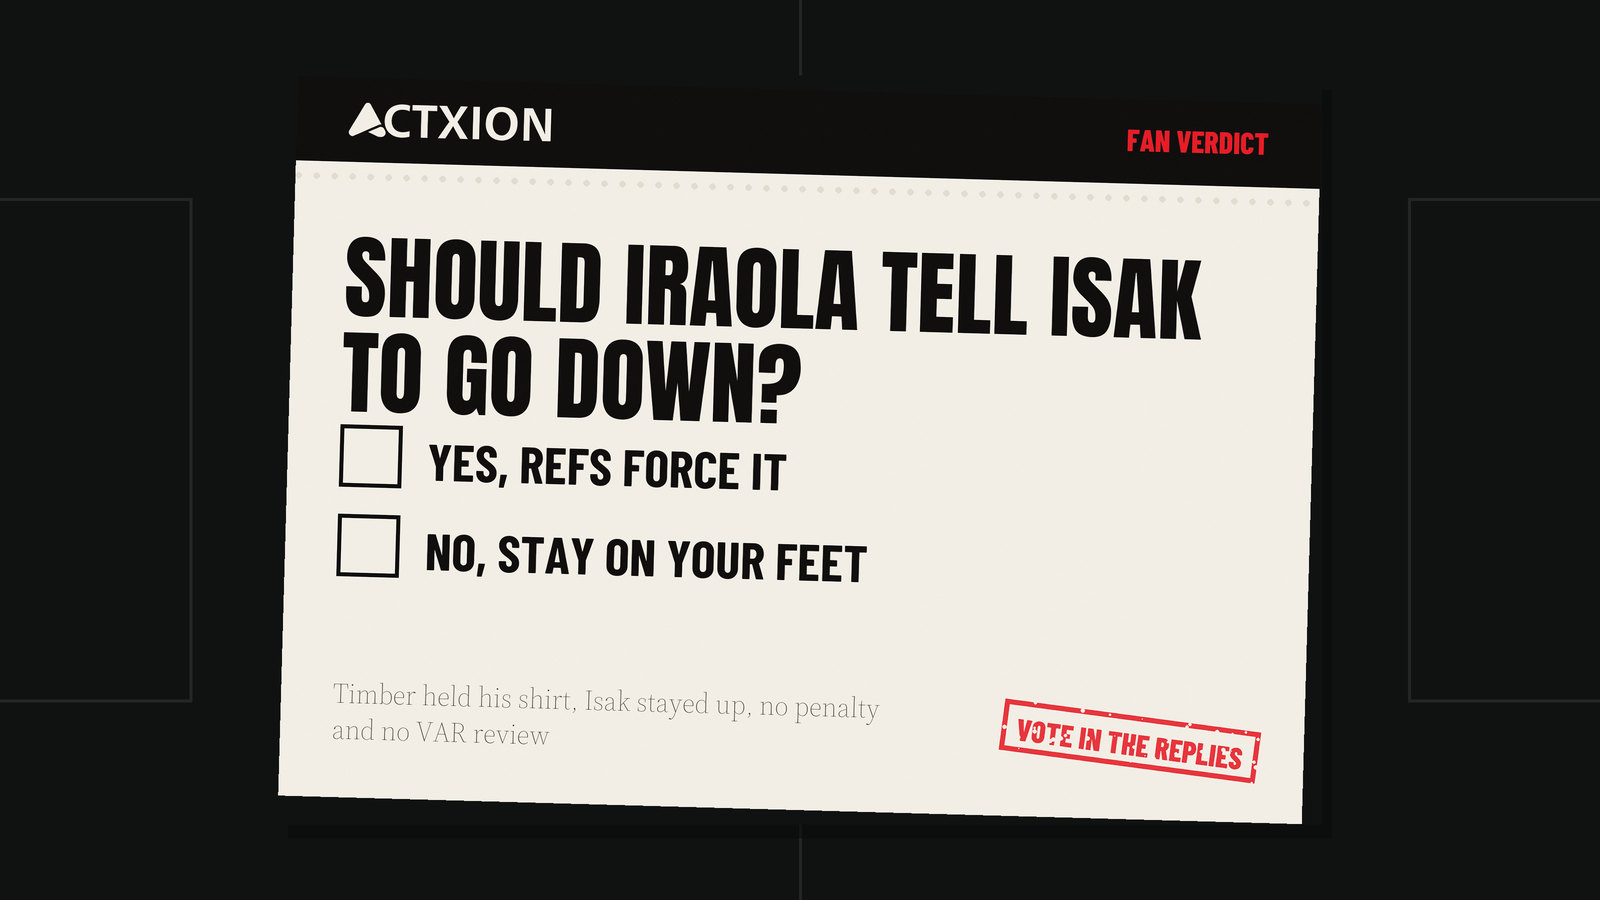
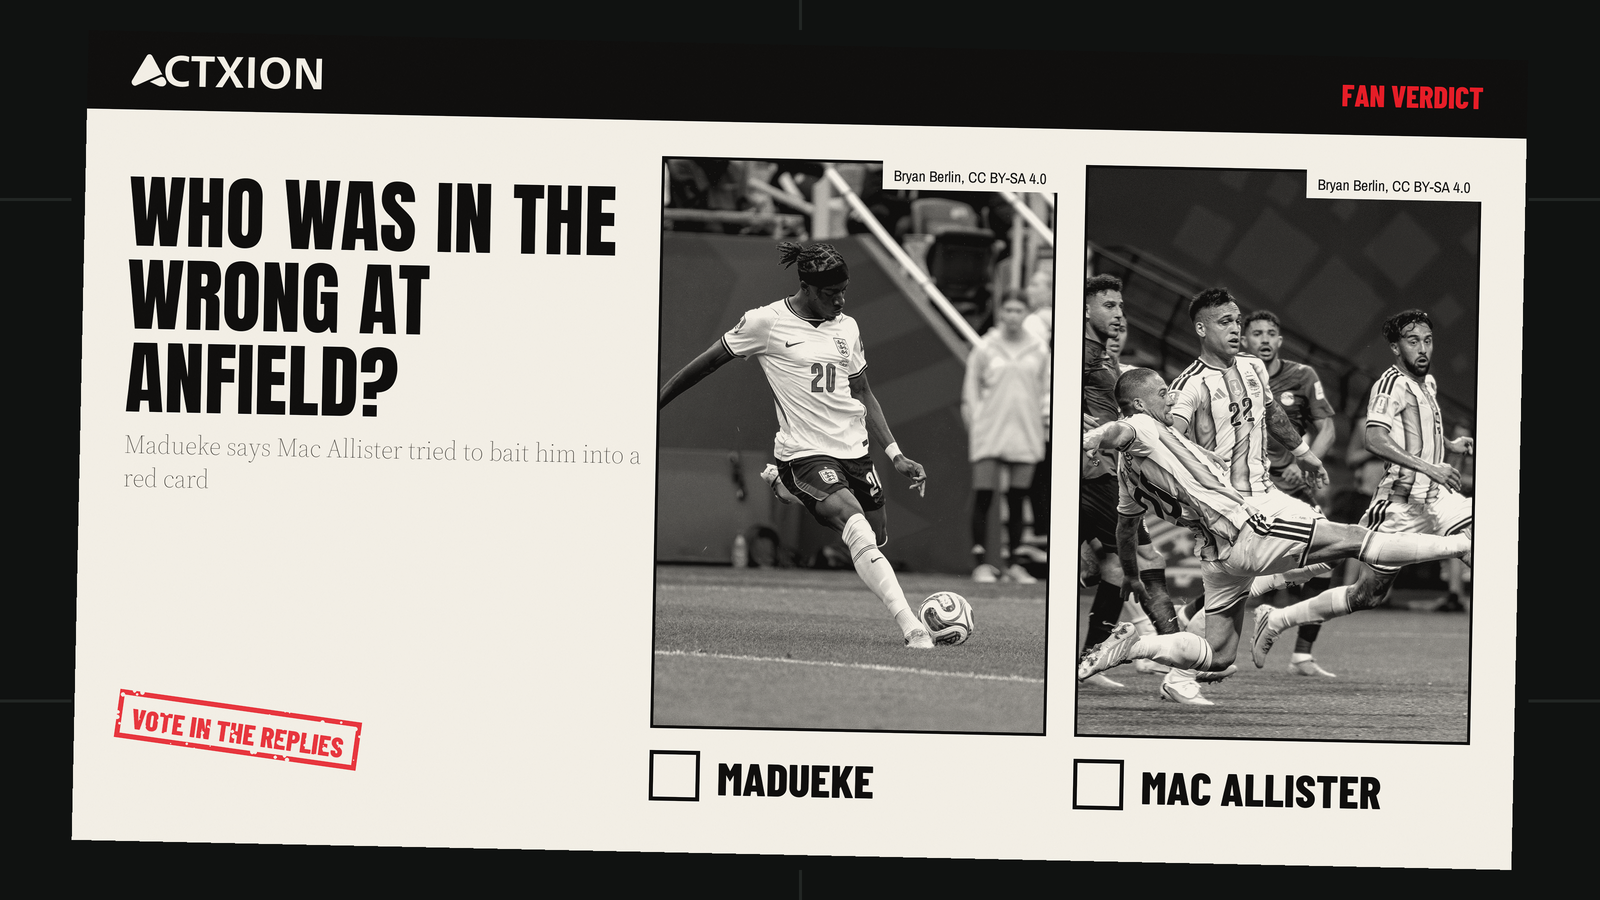
Photo-led templates: ballot, red card and scoreboard photo variants, new poster

diff --git a/skills/actxion-visuals/scripts/render.py b/skills/actxion-visuals/scripts/render.py
@@ -119,9 +119,21 @@ def load_photo(src):
     if not src:
         return None
     if re.match(r"^https?://", src):
-        req = urllib.request.Request(src, headers={"User-Agent": "ACTXION-visuals/1.0"})
-        data = urllib.request.urlopen(req, timeout=30).read()
-        return Image.open(io.BytesIO(data)).convert("RGB")
+        # Wikimedia only serves standard thumbnail widths; fall back to ones it accepts, then the original
+        tries = [src]
+        m = re.match(r"(https://[^/]*wikimedia\.org/wikipedia/commons)/thumb/(.+?)/\d+px-[^/]+$", src)
+        if m:
+            tries += [re.sub(r"/\d+px-", "/3840px-", src), re.sub(r"/\d+px-", "/1920px-", src),
+                      f"{m.group(1).replace('thumb.wikimedia.org', 'upload.wikimedia.org')}/{m.group(2)}"]
+        last = None
+        for u in dict.fromkeys(tries):
+            try:
+                req = urllib.request.Request(u, headers={"User-Agent": "ACTXION-visuals/1.0 (https://github.com/pvtaddyy/actxion-assets)"})
+                data = urllib.request.urlopen(req, timeout=30).read()
+                return Image.open(io.BytesIO(data)).convert("RGB")
+            except Exception as e:  # try the next size
+                last = e
+        raise last
     return Image.open(src).convert("RGB")
 
 
@@ -268,7 +280,7 @@ def t_ballot(spec, W, H):
     return img
 
 
-def t_scoreboard(spec, W, H):
+def t_scoreboard_core(spec, W, H):
     """Stadium dot-matrix scoreboard. Spec: home, away, home_score, away_score, scorers, status, question."""
     img = Image.new("RGB", (W * SS, H * SS), (8, 8, 9))
     d = ImageDraw.Draw(img)
@@ -471,7 +483,220 @@ def footer(d, W, H, dark=True):
     d.text((W * SS - int(56 * SS) - d.textlength(h, font=f), H * SS - int(52 * SS)), h, font=f, fill=RED if dark else INK)
 
 
-TEMPLATES = {"backpage": t_backpage, "ballot": t_ballot, "scoreboard": t_scoreboard, "rumour": t_rumour, "redcard": t_redcard}
+
+
+# ---------- photo-led variants ----------
+def duotone(photo, w, h, dark=INK, light=PAPER, focus_y=0.30, contrast=1.15):
+    """Print a file photo in two inks. Faces stay readable, age and colour casts disappear."""
+    g = ImageOps.autocontrast(cover(photo, w, h, focus_y).convert("L"), cutoff=1)
+    g = g.point(lambda v: max(0, min(255, int((v - 128) * contrast + 128))))
+    return ImageOps.colorize(g, black=dark, white=light)
+
+
+def photo_card(photo, w, h, credit=None, dark=INK, light=PAPER, label=None, label_bg=RED):
+    """A printed photo with a thin keyline, an optional label tab and a credit line."""
+    card = grain(duotone(photo, w, h, dark, light), 12)
+    d = ImageDraw.Draw(card)
+    d.rectangle((0, 0, w - 1, h - 1), outline=INK, width=int(3 * SS))
+    if label:
+        lf = font("barlow-xb", 30)
+        tw = d.textlength(label, font=lf)
+        d.rectangle((0, h - int(56 * SS), tw + int(36 * SS), h), fill=label_bg)
+        d.text((int(18 * SS), h - int(50 * SS)), label, font=lf, fill=WHITE)
+    if credit:
+        cf = font("narrow", 15)
+        ct = clean(credit)
+        cw = d.textlength(ct, font=cf)
+        d.rectangle((w - cw - int(22 * SS), 0, w, int(28 * SS)), fill=PAPER)
+        d.text((w - cw - int(11 * SS), int(4 * SS)), ct, font=cf, fill=INK)
+    return card
+
+
+def t_ballot_photos(spec, W, H):
+    """Ballot slip with a photo above each tick box: a straight A-or-B choice between two people."""
+    img = Image.new("RGB", (W * SS, H * SS), PITCH_NIGHT)
+    d = ImageDraw.Draw(img)
+    pitch_lines(d, W, H, (34, 38, 36))
+    sw, sh = int(W * SS * 0.90), int(H * SS * 0.90)
+    slip = Image.new("RGB", (sw, sh), PAPER)
+    sd = ImageDraw.Draw(slip)
+    pad = int(44 * SS)
+    sd.rectangle((0, 0, sw, int(78 * SS)), fill=INK)
+    wm = mask("wordmark", 32 * SS)
+    stamp_mask(slip, wm, (pad, (int(78 * SS) - wm.height) // 2), PAPER)
+    lf = font("barlow-xb", 30)
+    sd.text((sw - pad - sd.textlength("FAN VERDICT", font=lf), int(20 * SS)), "FAN VERDICT", font=lf, fill=RED)
+    # Question on the left, two photo ballots on the right
+    qw = int(sw * 0.40)
+    q = clean(spec.get("question", ""), headline=True)
+    qf, ql = fit(sd, q, "anton", (qw - pad) / SS, 5, 80, upper=True, max_h=(sh - int(260 * SS)) / SS)
+    y = int(120 * SS)
+    for ln in ql:
+        sd.text((pad, y), ln, font=qf, fill=INK)
+        y += int(qf.size * 1.04)
+    ctx = clean(spec.get("context", ""))
+    if ctx:
+        # Context sits under the question so the stamp at the foot never covers it
+        cf, cl = fit(sd, ctx, "serif", (qw - pad) / SS, 3, 26)
+        cy = y + int(26 * SS)
+        for ln in cl:
+            sd.text((pad, cy), ln, font=cf, fill=(70, 66, 60))
+            cy += int(cf.size * 1.3)
+    gap = int(28 * SS)
+    cw = (sw - qw - pad - gap) // 2
+    ch = sh - int(78 * SS) - int(40 * SS) - int(120 * SS)
+    for i, key in enumerate(("a", "b")):
+        x = qw + i * (cw + gap)
+        ph = load_photo(spec.get(f"photo_{key}"))
+        top = int(78 * SS) + int(36 * SS)
+        if ph:
+            slip.paste(photo_card(ph, cw, ch, spec.get(f"credit_{key}")), (x, top))
+        else:
+            sd.rectangle((x, top, x + cw, top + ch), fill=PAPER_SHADE)
+        box = int(50 * SS)
+        by = top + ch + int(22 * SS)
+        sd.rectangle((x, by, x + box, by + box), outline=INK, width=int(4 * SS))
+        of, ol = fit(sd, clean(spec.get(f"option_{key}", ""), headline=True), "barlow-xb", (cw - box - 20 * SS) / SS, 1, 46, upper=True)
+        sd.text((x + box + int(18 * SS), by - int(2 * SS)), ol[0], font=of, fill=INK)
+    slip = grain(slip, 10)
+    rot = slip.rotate(-1.2, expand=True, resample=Image.BICUBIC, fillcolor=PITCH_NIGHT)
+    img.paste(rot, ((W * SS - rot.width) // 2, (H * SS - rot.height) // 2))
+    st = rubber_stamp("VOTE IN THE REPLIES", 28, RED, rot=-8)
+    img.paste(st, (int(W * SS * 0.05) + int(30 * SS), int(H * SS * 0.86) - st.height), st.split()[3])
+    return img
+
+
+def t_redcard_photo(spec, W, H):
+    """The speaker's printed photo on the left, their words on the red card on the right."""
+    img = Image.new("RGB", (W * SS, H * SS), PITCH_NIGHT)
+    d = ImageDraw.Draw(img)
+    pw = int(W * SS * 0.46)
+    ph = load_photo(spec["photo"])
+    img.paste(grain(duotone(ph, pw, H * SS, dark=(10, 10, 12), light=(205, 200, 190)), 12), (0, 0))
+    wm = mask("wordmark", 38 * SS)
+    d.rectangle((0, 0, wm.width + int(80 * SS), int(98 * SS)), fill=PITCH_NIGHT)
+    stamp_mask(img, wm, (int(40 * SS), int(30 * SS)), WHITE)
+    if spec.get("credit"):
+        cf = font("narrow", 15)
+        ct = clean(spec["credit"])
+        d.rectangle((0, H * SS - int(30 * SS), d.textlength(ct, font=cf) + int(30 * SS), H * SS), fill=PITCH_NIGHT)
+        d.text((int(16 * SS), H * SS - int(26 * SS)), ct, font=cf, fill=(160, 158, 152))
+    cw = int(W * SS * 0.44)
+    ch = min(int(cw * 1.38), int(H * SS * 0.84))
+    cw = int(ch / 1.38)
+    card = Image.new("RGBA", (cw, ch), (0, 0, 0, 0))
+    cd = ImageDraw.Draw(card)
+    cd.rounded_rectangle((0, 0, cw, ch), radius=int(22 * SS), fill=RED)
+    pad = int(44 * SS)
+    cd.text((pad, pad - int(40 * SS)), "“", font=font("anton", 140), fill=(150, 12, 20, 255))
+    q = clean(spec.get("quote", ""), headline=True)
+    qf, ql = fit(cd, q, "anton", (cw - 2 * pad) / SS, 7, 70, 28, upper=True, max_h=(ch - 260 * SS) / SS)
+    y = pad + int(92 * SS)
+    for ln in ql:
+        cd.text((pad, y), ln, font=qf, fill=WHITE)
+        y += int(qf.size * 1.06)
+    cd.text((pad, ch - pad - int(70 * SS)), clean(spec.get("speaker", ""), True).upper(), font=font("barlow-xb", 32), fill=INK)
+    ctx = clean(spec.get("context", ""))
+    if ctx:
+        cf2, cl2 = fit(cd, ctx, "barlow-med", (cw - 2 * pad) / SS, 1, 24)
+        cd.text((pad, ch - pad - int(30 * SS)), cl2[0], font=cf2, fill=(60, 10, 12))
+    card = card.rotate(4, expand=True, resample=Image.BICUBIC)
+    sh = Image.new("L", card.size, 0)
+    sh.paste(card.split()[3])
+    cx, cy = pw + int((W * SS - pw - card.width) * 0.45), (H * SS - card.height) // 2
+    img.paste((0, 0, 0), (cx + int(16 * SS), cy + int(20 * SS)), sh.filter(ImageFilter.GaussianBlur(20 * SS)).point(lambda v: int(v * 0.6)))
+    img.paste(card, (cx, cy), card)
+    footer(ImageDraw.Draw(img), W, H, dark=True)
+    return img
+
+
+def t_scoreboard_photo(spec, W, H):
+    """Scoreboard on the left, the player or manager of the night printed on the right."""
+    pw = int(W * SS * 0.36)
+    img = Image.new("RGB", (W * SS, H * SS), (8, 8, 9))
+    ph = load_photo(spec["photo"])
+    img.paste(grain(duotone(ph, pw, H * SS, dark=(12, 8, 8), light=RED), 12), (W * SS - pw, 0))
+    sub = t_scoreboard_core(spec, W - pw // SS, H)
+    img.paste(sub, (0, 0))
+    d = ImageDraw.Draw(img)
+    lab = clean(spec.get("photo_label", ""), True).upper()
+    if lab:
+        lf = font("barlow-xb", 30)
+        tw = d.textlength(lab, font=lf)
+        d.rectangle((W * SS - pw, H * SS - int(70 * SS), W * SS - pw + tw + int(40 * SS), H * SS - int(14 * SS)), fill=INK)
+        d.text((W * SS - pw + int(20 * SS), H * SS - int(64 * SS)), lab, font=lf, fill=WHITE)
+    if spec.get("credit"):
+        cf = font("narrow", 15)
+        ct = clean(spec["credit"])
+        cw = d.textlength(ct, font=cf)
+        d.rectangle((W * SS - cw - int(24 * SS), 0, W * SS, int(28 * SS)), fill=(8, 8, 9))
+        d.text((W * SS - cw - int(12 * SS), int(4 * SS)), ct, font=cf, fill=(170, 168, 162))
+    return img
+
+
+def t_poster(spec, W, H):
+    """One big story: the person printed full height in red and black, one line of headline beside them."""
+    img = Image.new("RGB", (W * SS, H * SS), INK)
+    d = ImageDraw.Draw(img)
+    portrait = H > W
+    ph = load_photo(spec.get("photo"))
+    if portrait:
+        box = (0, 0, W * SS, int(H * SS * 0.60))
+    else:
+        box = (int(W * SS * 0.42), 0, W * SS, H * SS)
+    bw, bh = box[2] - box[0], box[3] - box[1]
+    if ph:
+        img.paste(grain(duotone(ph, bw, bh, dark=(14, 6, 7), light=RED, contrast=1.25), 14), box[:2])
+    m = int(60 * SS)
+    wm = mask("wordmark", 40 * SS)
+    stamp_mask(img, wm, (m, m), WHITE)
+    lab = clean(spec.get("label", ""), True).upper()
+    if lab:
+        st = rubber_stamp(lab, 30, WHITE, rot=-5)
+        img.paste(st, (m - int(8 * SS), m + wm.height + int(34 * SS)), st.split()[3])
+    tx0 = m
+    tx1 = (box[0] - int(40 * SS)) if not portrait else W * SS - m
+    ty0 = int(H * SS * 0.30) if not portrait else box[3] + int(40 * SS)
+    ty1 = H * SS - int(150 * SS)
+    head = clean(spec.get("headline", ""), headline=True)
+    hf, hl = fit(d, head, "anton", (tx1 - tx0) / SS, 4, 140, upper=True, max_h=(ty1 - ty0) / SS - 90, lead=1.02)
+    y = ty0
+    for ln in hl:
+        d.text((tx0, y), ln, font=hf, fill=WHITE)
+        y += int(hf.size * 1.02)
+    kick = clean(spec.get("kicker", ""))
+    if kick:
+        kf, kl = fit(d, kick, "barlow-med", (tx1 - tx0) / SS, 3, 34)
+        y += int(44 * SS)
+        for ln in kl:
+            d.text((tx0, y), ln, font=kf, fill=(236, 232, 224))
+            y += int(kf.size * 1.25)
+    if spec.get("credit"):
+        cf = font("narrow", 15)
+        ct = clean(spec["credit"])
+        cw = d.textlength(ct, font=cf)
+        d.text((box[2] - cw - int(16 * SS), box[3] - int(26 * SS)), ct, font=cf, fill=WHITE)
+    footer(d, W, H, dark=True)
+    return img
+
+
+def t_scoreboard(spec, W, H):
+    return t_scoreboard_photo(spec, W, H) if spec.get("photo") else t_scoreboard_core(spec, W, H)
+
+
+_ballot_plain = t_ballot
+_redcard_plain = t_redcard
+
+
+def t_ballot_any(spec, W, H):
+    return t_ballot_photos(spec, W, H) if (spec.get("photo_a") or spec.get("photo_b")) else _ballot_plain(spec, W, H)
+
+
+def t_redcard_any(spec, W, H):
+    return t_redcard_photo(spec, W, H) if spec.get("photo") else _redcard_plain(spec, W, H)
+
+
+TEMPLATES = {"backpage": t_backpage, "ballot": t_ballot_any, "scoreboard": t_scoreboard, "rumour": t_rumour, "redcard": t_redcard_any, "poster": t_poster}
 
 
 def main():

diff --git a/skills/actxion-visuals/SKILL.md b/skills/actxion-visuals/SKILL.md
@@ -23,17 +23,20 @@ Inter, Space Grotesk, Geist and the other "tasteful default" faces are avoided o
 
 **Texture:** a little paper grain, hand-crooked stamps and slips. Real objects are never perfectly straight; that is part of why these read as made rather than generated.
 
-## The five templates
+## The six templates
 
 Pick the object that matches the story. The story decides the template, not the other way round.
 
 | Template | Football object | Use for | Spec fields |
 |---|---|---|---|
 | `backpage` | Red-top tabloid back page | Big news, manager pressure, records, viral moments | `headline`, `kicker`, `photo`, `credit`, `date` |
-| `ballot` | Paper ballot slip with tick boxes | "Fan verdict" A-or-B debates | `question`, `option_a`, `option_b`, `context` |
-| `scoreboard` | Stadium dot-matrix board | Full-time results, half-time, big scorelines | `home`, `away`, `home_score`, `away_score`, `scorers`, `status`, `question` |
+| `ballot` | Paper ballot slip with tick boxes | "Fan verdict" A-or-B debates | `question`, `option_a`, `option_b`, `context`; for two people add `photo_a`, `photo_b`, `credit_a`, `credit_b` |
+| `scoreboard` | Stadium dot-matrix board | Full-time results, half-time, big scorelines | `home`, `away`, `home_score`, `away_score`, `scorers`, `status`, `question`; add `photo`, `photo_label`, `credit` for the player or manager of the night |
 | `rumour` | Typed transfer file with a rubber stamp | Transfer and manager rumours, with the source's reliability tier | `player`, `from_club`, `to_club`, `fee`, `source`, `tier` (1-3), `photo`, `credit` |
-| `redcard` | Referee's red card | A controversial quote, a manager or player outburst | `quote`, `speaker`, `context`, `label` |
+| `redcard` | Referee's red card | A controversial quote, a manager or player outburst | `quote`, `speaker`, `context`, `label`; add `photo`, `credit` to print the speaker beside the card |
+| `poster` | Full-height red-and-black print of one person | The one big story about one person: pressure, a record, a return | `headline`, `kicker`, `label`, `photo`, `credit` |
+
+**Use a photo of the person whenever the story is about a person.** Real faces stop the scroll and make the image make sense on its own. The photo variants switch on automatically when the photo fields are filled. A ballot about two players shows both; a scoreboard shows the manager under pressure or the match winner; a red card shows whoever said it. Fall back to the text-only version only when Commons has no free HD photo of that person, and never use a photo of someone else.
 
 ## Render
 
@@ -47,6 +50,8 @@ python3 ~/.claude/skills/actxion-visuals/scripts/render.py ballot \
 - `--spec` takes inline JSON or a path to a JSON file.
 - `photo` takes a local path or a Wikimedia `https://upload.wikimedia.org/...` URL.
 - The script needs Pillow (`pip install pillow`) and nothing else. Fonts and logo masks ship in `assets/`, so it renders the same on a Mac and on a Linux cloud box.
+
+Thumbnail URLs (`.../thumb/.../2560px-...`) also work: if Commons refuses the size, the renderer retries 3840px, 1920px and then the original file.
 
 To find a photo, search Commons for the person's full name or the stadium. Keep only CC0, public domain, CC BY or CC BY-SA files at least 2000px on the long side, and put the credit in the post's first comment as well as on the image.
 

diff --git a/skills/actxion-growth/SKILL.md b/skills/actxion-growth/SKILL.md
@@ -44,11 +44,12 @@ The voice is a sharp, funny, fair fan who knows the game: never a press release,
 
 | Format | When | Image template |
 |---|---|---|
-| Fan verdict debate | Any controversy with two clear sides | `ballot` |
-| Full-time verdict | Within 30 min of a big final whistle | `scoreboard` |
+| Fan verdict debate | Any controversy with two clear sides | `ballot` (with both people's photos when it is person v person) |
+| Full-time verdict | Within 30 min of a big final whistle | `scoreboard` with the match winner or the manager under pressure |
 | Back-page story | Manager pressure, records, the big story of the day | `backpage` with a halftone photo |
 | Rumour desk | Transfer or manager rumours | `rumour` with the tier stamp |
-| Quote of the day | A manager or player outburst | `redcard` |
+| Quote of the day | A manager or player outburst | `redcard` with the speaker's photo |
+| One person, one big story | Pressure, a record, a return, a sacking watch | `poster` |
 | Quote post | An official club or reporter post is the news | No image; the quoted post's media shows |
 | Crossover / personality story | Celebrity, viral fan, player humour | `backpage` |
 
